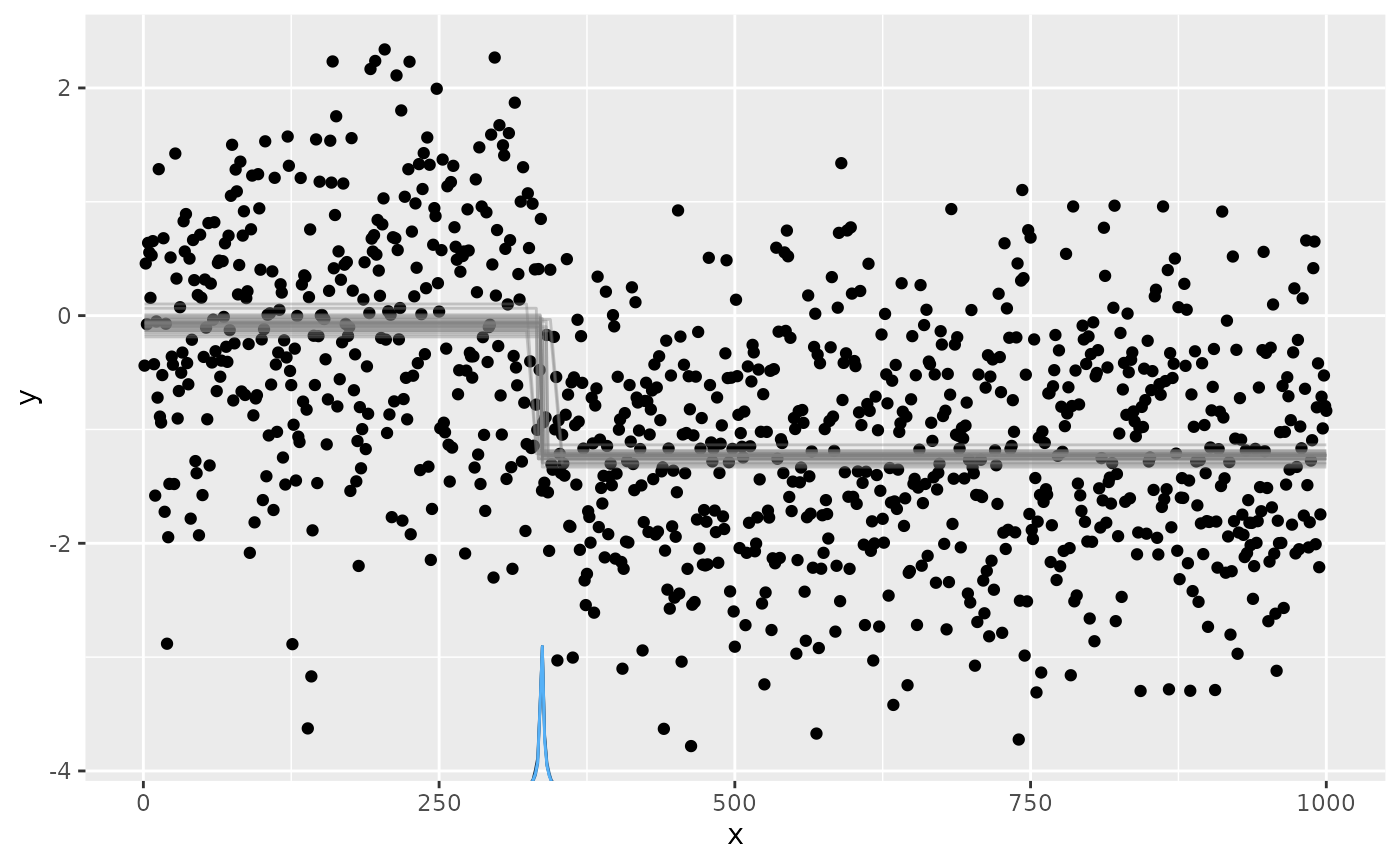
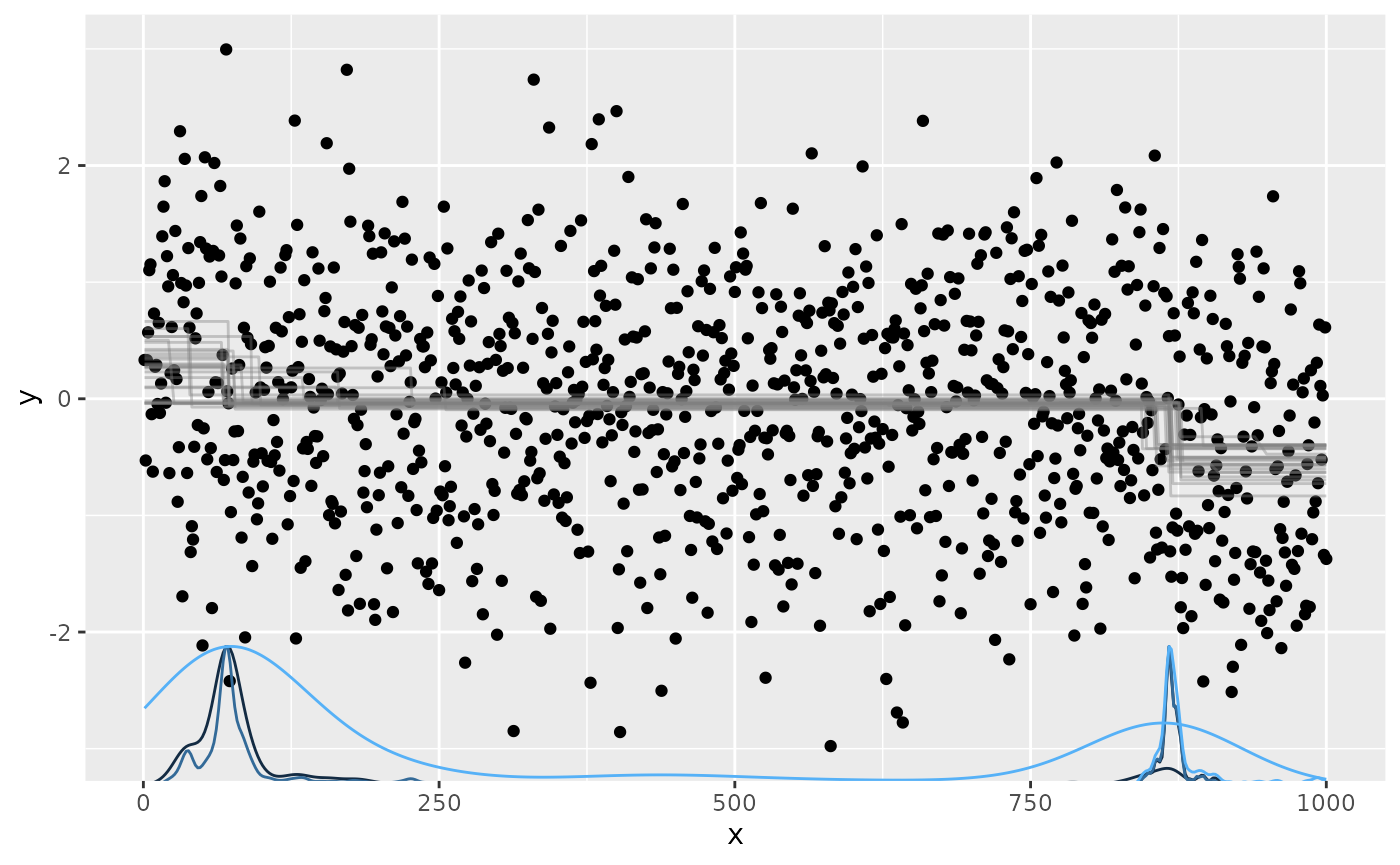
Built site for Rhpc: 0.0.1@

diff --git a/articles/breakpt-ex.html b/articles/breakpt-ex.html
@@ -138,13 +138,20 @@ kbd {
 <span class="op">}</span></code></pre></div>
 <p>This will randomly generate one sample with our <code>x</code> and <code>y</code> coordinates. The resulting data should look something like this:</p>
 <div class="sourceCode" id="cb3"><pre class="downlit sourceCode r">
-<code class="sourceCode R"><span class="va">sim</span> <span class="op">=</span> <span class="fu">simulate_data</span><span class="op">(</span><span class="op">)</span>
+<code class="sourceCode R"><span class="va">sim</span> <span class="op">=</span> <span class="fu">simulate_data</span><span class="op">(</span>bps<span class="op">=</span><span class="fl">1</span><span class="op">)</span>
 <span class="fu"><a href="https://rdrr.io/r/graphics/plot.default.html" class="external-link">plot</a></span><span class="op">(</span><span class="va">sim</span><span class="op">)</span></code></pre></div>
 <p><img src="breakpt-ex_files/figure-html/unnamed-chunk-5-1.png" width="700"></p>
 </div>
 <div class="section level2">
 <h2 id="running-break-point-inference">Running break point inference<a class="anchor" aria-label="anchor" href="#running-break-point-inference"></a>
 </h2>
+<p>We can now use our simulated data as a starting point to infer the breakpoints that we simulated. Using the <code>mcp</code> package, we run three different models:</p>
+<ul>
+<li>One segment, no breakpoints</li>
+<li>Two segments, one breakpoint</li>
+<li>Three segments, two breakpoints</li>
+</ul>
+<p>When then compare these models in terms of how well they fit the data, and return the model that fits best:</p>
 <div class="sourceCode" id="cb4"><pre class="downlit sourceCode r">
 <code class="sourceCode R"><span class="kw"><a href="https://rdrr.io/r/base/library.html" class="external-link">library</a></span><span class="op">(</span><span class="va"><a href="https://lindeloev.github.io/mcp/" class="external-link">mcp</a></span><span class="op">)</span>
 
@@ -172,7 +179,7 @@ kbd {
 <span class="co">#&gt;    Total graph size: 5019</span>
 <span class="co">#&gt; </span>
 <span class="co">#&gt; Initializing model</span>
-<span class="co">#&gt; Finished sampling in 18.9 seconds</span>
+<span class="co">#&gt; Finished sampling in 18.6 seconds</span>
 <span class="co">#&gt; Compiling model graph</span>
 <span class="co">#&gt;    Resolving undeclared variables</span>
 <span class="co">#&gt;    Allocating nodes</span>
@@ -182,7 +189,7 @@ kbd {
 <span class="co">#&gt;    Total graph size: 12020</span>
 <span class="co">#&gt; </span>
 <span class="co">#&gt; Initializing model</span>
-<span class="co">#&gt; Finished sampling in 71.3 seconds</span>
+<span class="co">#&gt; Finished sampling in 78.1 seconds</span>
 <span class="co">#&gt; Compiling model graph</span>
 <span class="co">#&gt;    Resolving undeclared variables</span>
 <span class="co">#&gt;    Allocating nodes</span>
@@ -192,21 +199,22 @@ kbd {
 <span class="co">#&gt;    Total graph size: 17028</span>
 <span class="co">#&gt; </span>
 <span class="co">#&gt; Initializing model</span>
-<span class="co">#&gt; Finished sampling in 150.3 seconds</span>
+<span class="co">#&gt; Finished sampling in 148.4 seconds</span>
 <span class="co">#&gt; Warning: Some Pareto k diagnostic values are too high. See help('pareto-k-diagnostic') for details.</span>
 
 <span class="co">#&gt; Warning: Some Pareto k diagnostic values are too high. See help('pareto-k-diagnostic') for details.</span>
 <span class="fu"><a href="https://lindeloev.github.io/mcp/reference/plot.mcpfit.html" class="external-link">plot</a></span><span class="op">(</span><span class="va">mod</span><span class="op">)</span></code></pre></div>
 <p><img src="breakpt-ex_files/figure-html/unnamed-chunk-7-1.png" width="700"></p>
+<p>Here, we see the <code>x</code> and <code>y</code> coordinates of our observations as before, but in addition we see the traces of the intercepts (grey lines) and the probability density of the break point itself (blue line close to the bottom of the plot).</p>
 <div class="section level4">
 <h4 id="exercise">Exercise<a class="anchor" aria-label="anchor" href="#exercise"></a>
 </h4>
 <ul>
-<li>Use your editor to create the break point simulation script (hint: you can use <kbd>Esc</kbd>+<code>:set paste</code> in nvim to copy-paste the text without automatic indentation and <code>:set nopaste</code> to return)</li>
+<li>Use your editor to create the break point simulation script (<em>hint</em>: you can use <kbd>Esc</kbd>+<code>:set paste</code> in nvim to copy-paste the text without automatic indentation and <code>:set nopaste</code> to return)</li>
 <li>Simulate data for one and two break points</li>
 <li>Start an interactive job with 1 task and 5 cores</li>
-<li>Run the <code>mcp</code> inference script to try and estimate the breakpoints from the data. Do they match to the parameters of your simulation? (hint: you can use the <code>plot</code> function on an <code>mcp</code> model object)</li>
-<li>Which options do you see to make this code run faster? (hint: there is both <code>mcp</code>-provided parallelism and and sequential steps in the inference code)</li>
+<li>Run the <code>mcp</code> inference script to try and estimate the breakpoints from the data. Do they match to the parameters of your simulation? (<em>hint</em>: you can use the <code>plot</code> function on an <code>mcp</code> model object; this will create an <code>Rplots.pdf</code> after which you’ll need to <code><a href="https://rdrr.io/r/grDevices/dev.html" class="external-link">dev.off()</a></code> and copy to your local machine)</li>
+<li>Which options do you see to make this code run faster? (<em>hint</em>: there is both <code>mcp</code>-provided parallelism and and sequential steps in the inference code)</li>
 <li>How much runtime can you save by running computations in parallel?</li>
 </ul>
 </div>
@@ -214,6 +222,86 @@ kbd {
 <div class="section level2">
 <h2 id="bigger-data-sets">Bigger data sets<a class="anchor" aria-label="anchor" href="#bigger-data-sets"></a>
 </h2>
+<p>The strategy of reserving a node with many CPUs works well up to the extent where we want to process more computations in parallel than there is CPUs on a given node (modern nodes often have up to 128 cores/threads).</p>
+<p>Here, we want to simulate such a big computational task, but for this to not use too many resources we will limit the overall amount.</p>
+<div class="section level4">
+<h4 id="exercise-1">Exercise<a class="anchor" aria-label="anchor" href="#exercise-1"></a>
+</h4>
+<ul>
+<li>Simulate 10 breakpoint data sets using the function above, and save the resulting list in an <code>.rds</code> object (using <code>saveRDS</code>)</li>
+<li>Write a submission script with 10 tasks that load the object, subset the current task index, and save the resulting model as <code>.rds</code> and model plot as <code>.pdf</code> (<em>hint</em>: there are automatic environment variables available for each slurm run, such as <a href="https://slurm.schedmd.com/sbatch.html#lbAK" class="external-link"><code>SLURM_PROCID</code></a>)</li>
+</ul>
+</div>
+</div>
+<div class="section level2">
+<h2 id="hpc-specific-packages">HPC-specific packages<a class="anchor" aria-label="anchor" href="#hpc-specific-packages"></a>
+</h2>
+<p>There are also multiple packages available to make use of HPC resources from within R. That is to say, that R will submit a job or multiple jobs, and retrieve the result back to the session.</p>
+<p>There is, for instance, the packages <code>BatchJobs</code> and <code>batchtools</code>. These make use of the networked file system to write each call and its arguments to a file, that is then retrieved by the job and excecuted. These packages are robust for small numbers of jobs, however, the will put a substantial strain on the file system for a high number of function calls.</p>
+<p>Instead, we will introduce two packages that make only little use of the shared file system, <code>slurmR</code> and <code>clustermq</code>. (Note that I am the author of the latter, so there’s a bit of a conflict of interest here.)</p>
+<div class="section level4">
+<h4 id="slurmr">slurmR<a class="anchor" aria-label="anchor" href="#slurmr"></a>
+</h4>
+<p>The <a href="https://uscbiostats.github.io/slurmR/" class="external-link"><code>slurmR</code></a> package is a lightweight (dependency-free) R package that allows users to interact with the scheduler.</p>
+<p>It can be used to create a cluster object on Slurm tasks analogous to <code><a href="https://rdrr.io/r/parallel/makeCluster.html" class="external-link">parallel::makePSOCKcluster</a></code>. The command for this is <code>slurmR::makeSlurmCluster(ntasks)</code>, which can then be used with the <code>parLapply</code> or <code>parSapply</code> functions:</p>
+<div class="sourceCode" id="cb6"><pre class="downlit sourceCode r">
+<code class="sourceCode R"><span class="kw"><a href="https://rdrr.io/r/base/library.html" class="external-link">library</a></span><span class="op">(</span><span class="va"><a href="https://github.com/USCbiostats/slurmR" class="external-link">slurmR</a></span><span class="op">)</span>
+<span class="va">cl</span> <span class="op">=</span> <span class="fu">makeSlurmCluster</span><span class="op">(</span><span class="fl">5</span><span class="op">)</span>
+
+<span class="va">res</span> <span class="op">=</span>  <span class="fu">parSapply</span><span class="op">(</span><span class="fl">1</span><span class="op">:</span><span class="fl">100</span>, <span class="kw">function</span><span class="op">(</span><span class="va">x</span><span class="op">)</span> <span class="fu"><a href="https://rdrr.io/r/base/mean.html" class="external-link">mean</a></span><span class="op">(</span><span class="fu"><a href="https://rdrr.io/r/stats/Uniform.html" class="external-link">runif</a></span><span class="op">(</span><span class="fl">100</span><span class="op">)</span><span class="op">)</span><span class="op">)</span>
+
+<span class="fu">stopCluster</span><span class="op">(</span><span class="va">cl</span><span class="op">)</span></code></pre></div>
+<p>The <code>sbatch</code> call that is created via <code>makeSlurmCluster</code> can be customized by passing different parameters to the cluster creation function. In particular, we need to:</p>
+<ul>
+<li>Include the right budgeting account</li>
+</ul>
+<p>More details can be found in their <a href="https://uscbiostats.github.io/slurmR/articles/getting-started.html" class="external-link">Getting Started vignette</a>.</p>
+</div>
+<div class="section level4">
+<h4 id="clustermq">clustermq<a class="anchor" aria-label="anchor" href="#clustermq"></a>
+</h4>
+<p>The <a href="https://mschubert.github.io/clustermq/" class="external-link"><code>clustermq</code></a> package provides an interface to multiple HPC schedulers (including Slurm) via the ZeroMQ socket library, available as a module:</p>
+<div class="sourceCode" id="cb7"><pre class="sourceCode sh"><code class="sourceCode bash"><span id="cb7-1"><a href="#cb7-1" aria-hidden="true" tabindex="-1"></a><span class="ex">module</span> load GCCcore/10.2.0 ZeroMQ/4.3.3</span></code></pre></div>
+<div class="sourceCode" id="cb8"><pre class="downlit sourceCode r">
+<code class="sourceCode R"><span class="kw"><a href="https://rdrr.io/r/base/library.html" class="external-link">library</a></span><span class="op">(</span><span class="va"><a href="https://mschubert.github.io/clustermq/" class="external-link">clustermq</a></span><span class="op">)</span>
+
+<span class="va">fx</span> <span class="op">=</span> <span class="kw">function</span><span class="op">(</span><span class="va">x</span><span class="op">)</span> <span class="va">x</span> <span class="op">*</span> <span class="fl">2</span>
+
+<span class="fu"><a href="https://mschubert.github.io/clustermq/reference/Q.html" class="external-link">Q</a></span><span class="op">(</span><span class="va">fx</span>, x<span class="op">=</span><span class="fl">1</span><span class="op">:</span><span class="fl">3</span>, n_jobs<span class="op">=</span><span class="fl">1</span><span class="op">)</span></code></pre></div>
+<p>The package relies on a <a href="https://github.com/mschubert/clustermq/blob/master/inst/SLURM.tmpl" class="external-link">submission template</a>, which by default submits Slurm jobs as a job array. As we need to supply an account name, and the policy on Sulis is to use tasks whenever possible, we should modify the submission template to:</p>
+<ul>
+<li>Include the right budgeting account</li>
+<li>Load the right modules in the submission script</li>
+<li>Use <code>srun</code> with multiple tasks instead of the job array</li>
+</ul>
+<p>The new template should look something like this:</p>
+<div class="sourceCode" id="cb9"><pre class="sourceCode sh"><code class="sourceCode bash"><span id="cb9-1"><a href="#cb9-1" aria-hidden="true" tabindex="-1"></a><span class="co">#!/bin/sh</span></span>
+<span id="cb9-2"><a href="#cb9-2" aria-hidden="true" tabindex="-1"></a><span class="co">#SBATCH --account={{ account | su105 }}</span></span>
+<span id="cb9-3"><a href="#cb9-3" aria-hidden="true" tabindex="-1"></a><span class="co">#SBATCH --job-name={{ job_name }}</span></span>
+<span id="cb9-4"><a href="#cb9-4" aria-hidden="true" tabindex="-1"></a><span class="co">#SBATCH --tasks={{ n_jobs }}</span></span>
+<span id="cb9-5"><a href="#cb9-5" aria-hidden="true" tabindex="-1"></a><span class="co">#SBATCH --mem-per-cpu={{ memory | 1024M }}</span></span>
+<span id="cb9-6"><a href="#cb9-6" aria-hidden="true" tabindex="-1"></a><span class="co">#SBATCH --cpus-per-task={{ cores | 1 }}</span></span>
+<span id="cb9-7"><a href="#cb9-7" aria-hidden="true" tabindex="-1"></a></span>
+<span id="cb9-8"><a href="#cb9-8" aria-hidden="true" tabindex="-1"></a><span class="va">CMQ_AUTH</span><span class="op">=</span>{{ <span class="ex">auth</span> }} srun R <span class="at">--no-save</span> <span class="at">--no-restore</span> <span class="at">-e</span> <span class="st">'clustermq:::worker("{{ master }}")'</span></span></code></pre></div>
+<p>When can then use this newly created template by:</p>
+<div class="sourceCode" id="cb10"><pre class="downlit sourceCode r">
+<code class="sourceCode R"><span class="fu"><a href="https://rdrr.io/r/base/options.html" class="external-link">options</a></span><span class="op">(</span>clustermq.template <span class="op">=</span> <span class="st">"/path/to/updated/template"</span><span class="op">)</span></code></pre></div>
+<p>This should make the above example run. More information is available at the <a href="https://mschubert.github.io/clustermq/articles/userguide.html" class="external-link">User Guide vignette</a>.</p>
+</div>
+<div class="section level4">
+<h4 id="exercise-2">Exercise<a class="anchor" aria-label="anchor" href="#exercise-2"></a>
+</h4>
+<ul>
+<li>Run the above <code>mcp</code> example using one interactive “master” job (e.g. using the R integration with <code>nvim</code>) and
+<ul>
+<li>Run the workers with <code>slurmR</code>
+</li>
+<li>Run the workers with <code>clustermq</code>
+</li>
+</ul>
+</li>
+</ul>
+</div>
 </div>
   </main><aside class="col-md-3"><nav id="toc"><h2>On this page</h2>
     </nav></aside>

diff --git a/articles/quickstart.html b/articles/quickstart.html
@@ -302,12 +302,12 @@ kbd {
 <span class="co">#&gt; [1] "starting "</span>
 <span class="co">#&gt; [1] "done!"</span>
 <span class="co">#&gt;    user  system elapsed </span>
-<span class="co">#&gt;   0.005   0.000  10.014</span></code></pre></div>
+<span class="co">#&gt;   0.005   0.000  10.015</span></code></pre></div>
 <p>This will, unsurprisingly, take 10 times as long as an individual call to <code>fsleep()</code>. For many use cases, it makese sense to run computations (done in reality instead of just sleeping) in parallel. The probably most integrated solution is the <code>parallel</code> package, which is one of the core packages distributed with a standard R installation by default.</p>
 <div class="sourceCode" id="cb23"><pre class="downlit sourceCode r">
 <code class="sourceCode R"><span class="fu"><a href="https://rdrr.io/r/base/system.time.html" class="external-link">system.time</a></span><span class="op">(</span><span class="op">{</span> <span class="fu">parallel</span><span class="fu">::</span><span class="fu"><a href="https://rdrr.io/r/parallel/mclapply.html" class="external-link">mclapply</a></span><span class="op">(</span><span class="fl">1</span><span class="op">:</span><span class="fl">10</span>, <span class="va">fsleep</span><span class="op">)</span> <span class="op">}</span><span class="op">)</span>
 <span class="co">#&gt;    user  system elapsed </span>
-<span class="co">#&gt;   0.012   0.001   5.019</span></code></pre></div>
+<span class="co">#&gt;   0.013   0.000   5.019</span></code></pre></div>
 <p>However, there are also other possibilities, e.g. the <a href="https://cran.r-project.org/package=foreach" class="external-link"><code>foreach</code></a> package that enables parallel processing using the <code>%dopar%</code> command, or the <a href="https://cran.r-project.org/package=future" class="external-link"><code>future</code></a> package by using <code>plan(multisession)</code>.</p>
 <div class="section level4">
 <h4 id="exercise-1">Exercise<a class="anchor" aria-label="anchor" href="#exercise-1"></a>
